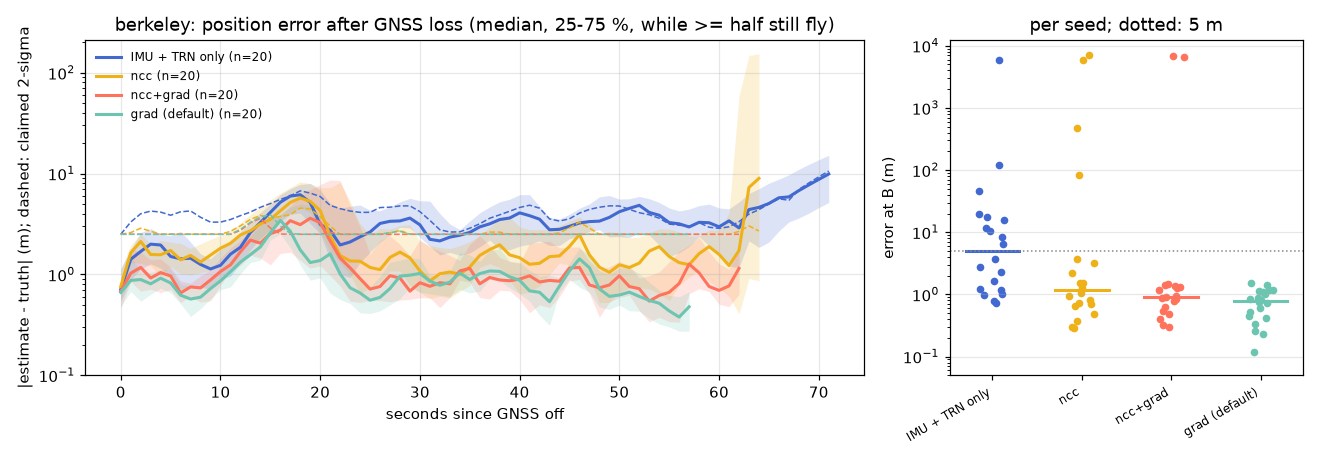
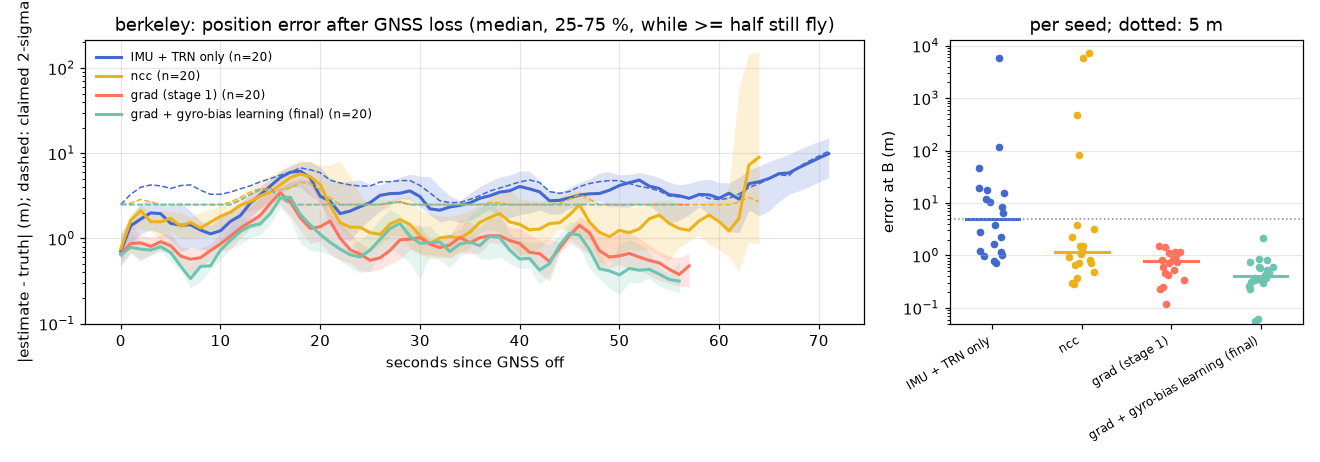
Final night table (grad + gyro-bias learning): 58/60 within 5 m; plots for all three missions

diff --git a/docs/NIGHT_NAV.md b/docs/NIGHT_NAV.md
@@ -97,7 +97,16 @@ crosses a ~250 m forest, x = -150..+100 m, where the prior is uniform: ~30 s wit
 
 ### Final configuration (night defaults: `grad` + gyro-bias learning)
 
-FINAL_TABLE_PLACEHOLDER
+| mission | route | within 5 m | 95 % Wilson CI | error at B mean / median / max (m) | runaways (> 50 m) | max est. error over the flight, worst seed (m) | thermal fixes accepted / flight |
+|---|---|---|---|---|---|---|---|
+| berkeley | 569 m | **20/20** | 84-100 % | 0.5 / 0.4 / 2.2 | 0 | 23.7 | 318 |
+| m-c804bb84 (hill) | 923 m | **20/20** | 84-100 % | 0.9 / 0.7 / 1.6 | 0 | 21.4 | 513 |
+| ukraine-1 | 1870 m | **18/20** | 70-97 % | 236 / 1.2 / 4143 | 2 (seeds 5, 9) | 8446 | 912 |
+| all three | | **58/60** | 89-99 % | | 2 | | |
+
+The compass yaw error stays at its per-flight bias (mean |yaw error| 0.78 deg, no drift). Thermal processing 30-70 ms
+per frame on berkeley / hill, 130-180 ms on ukraine-1 (larger search windows), at 5 Hz.
+Rows LOW_CONTRAST_PLACEHOLDER
 
 ### Stage 1: method comparison (before the gyro-bias fix)
 

diff --git a/REPORT_night-nav.md b/REPORT_night-nav.md
@@ -9,7 +9,15 @@ thermal camera matched against a thermal prior predicted from daytime imagery. S
 Night 23:00, 60 m AGL, GNSS completely off from 20 % of the route, 20 seeds each, frozen mission data (see
 "Data versions"), default night configuration (gradient-orientation matching + gyro-bias learning):
 
-FINAL_HEADLINE_PLACEHOLDER
+| mission | within 5 m | 95 % Wilson CI | median / max error at B (m) | same without gyro-bias learning | IMU + TRN only |
+|---|---|---|---|---|---|
+| berkeley (569 m) | **20/20** | 84-100 % | 0.4 / 2.2 | 20/20 | 10/20 |
+| m-c804bb84, hill (923 m) | **20/20** | 84-100 % | 0.7 / 1.6 | 19/20 | 0/20 |
+| ukraine-1 (1870 m) | **18/20** | 70-97 % | 1.2 / 4143 (2 runaways) | 12/20 | 0/20 |
+| all | **58/60** | 89-99 % | | 51/60 | 10/60 |
+
+Default = `grad` (gradient-orientation NCC of the rectified thermal frame vs the predicted thermal map) +
+`ahrs.tilt_bias_ki` 0.05 in night mode (commit 651b398). Plots: `docs/night_nav/night_error_<mission>.png`.
 
 ## What works
 
